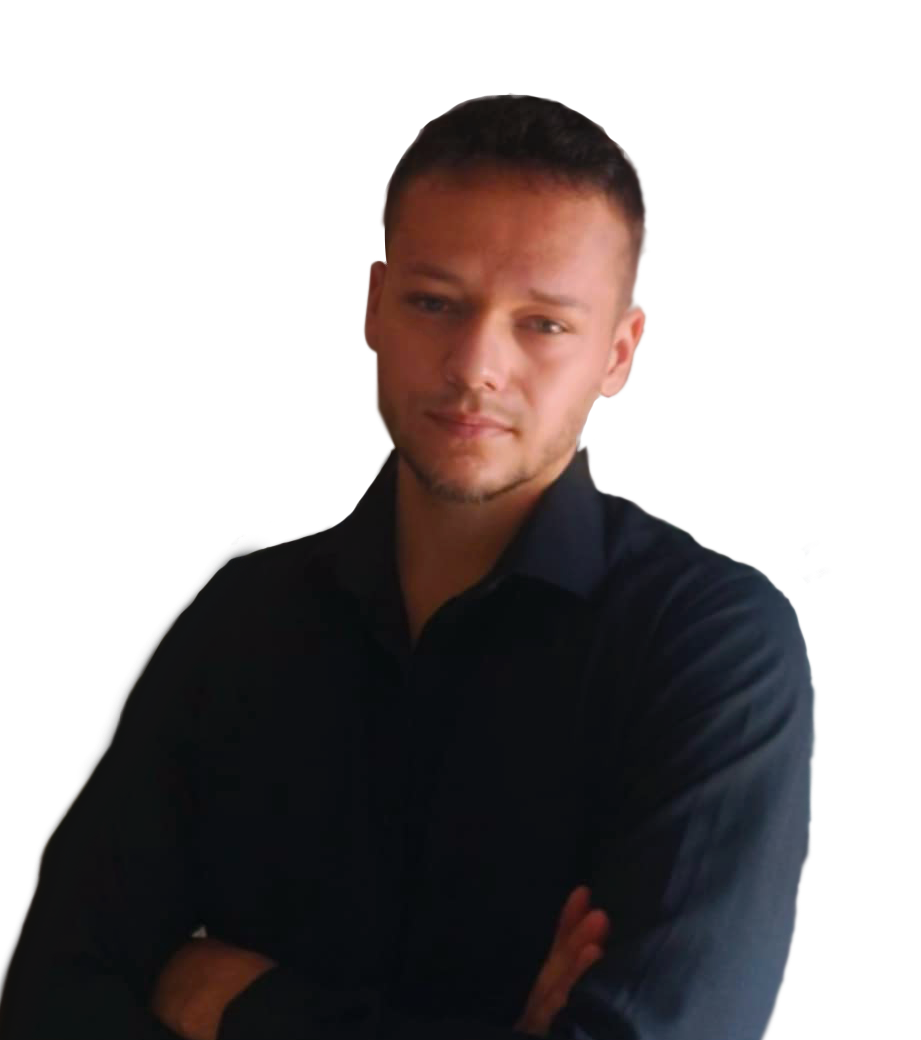
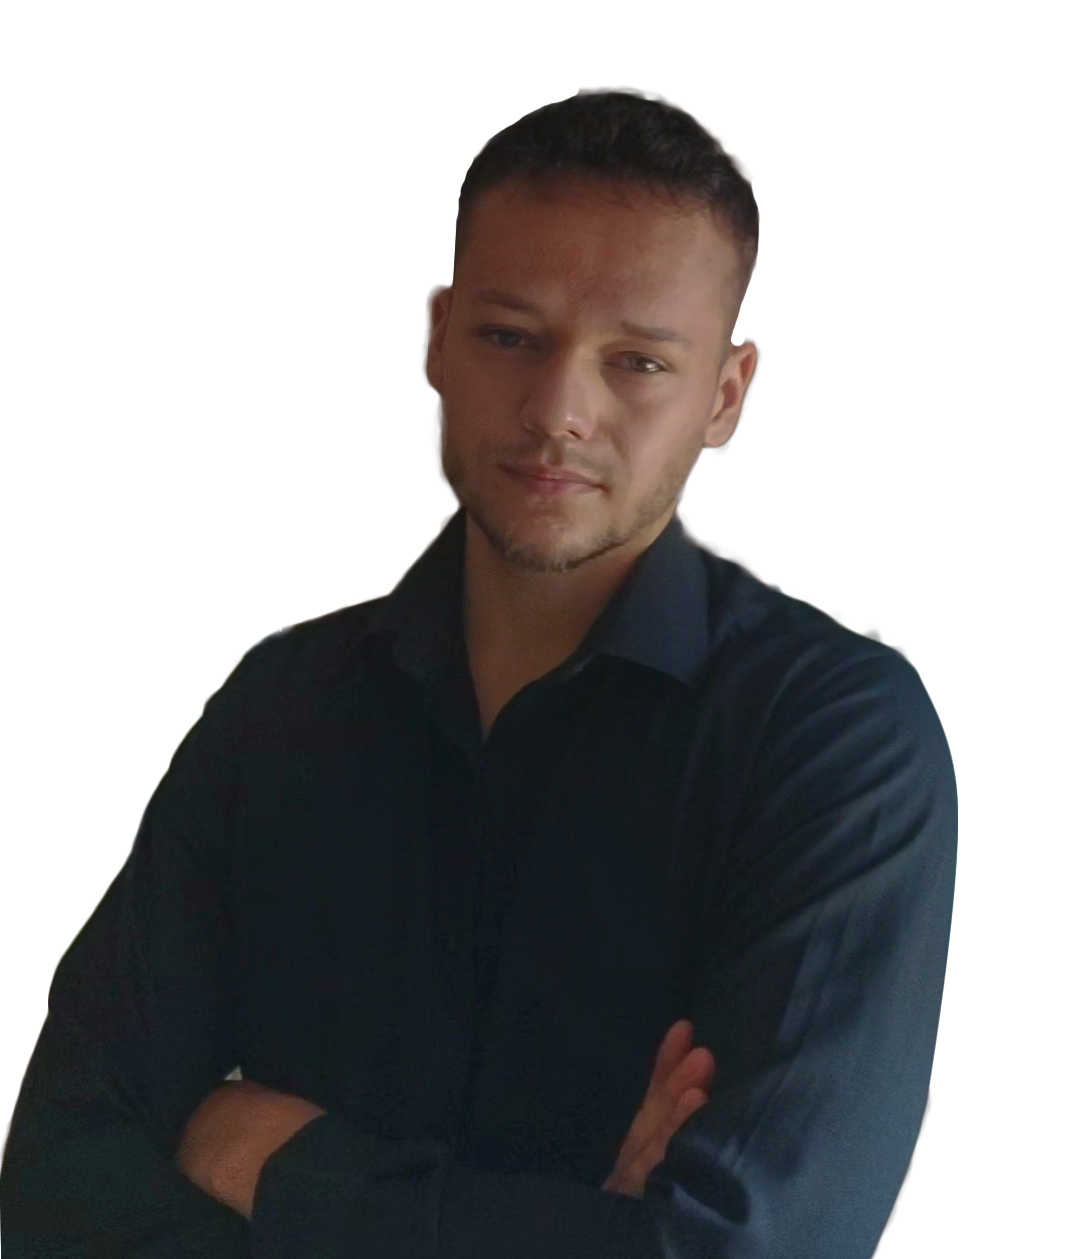
Update photo

diff --git a/src/Components/MainContent/MainContent.jsx b/src/Components/MainContent/MainContent.jsx
@@ -4,7 +4,7 @@ import inst from "../../assets/icons/Instagram_icon.png"
 import facebook from "../../assets/icons/Facebook_Logo.png"
 import github from "../../assets/icons/Github_icon.png"
 import StyledButton from '../StyledButton/StyledButton'
-import img from "../../assets/img/img2.png"
+import img from "../../assets/img/img.png"
 import { HashLink as Link } from 'react-router-hash-link';
 
 const MainContent = ({lightMode}) => {

diff --git a/src/Components/Navbar/Navbar.jsx b/src/Components/Navbar/Navbar.jsx
@@ -1,7 +1,5 @@
 import { useEffect, useRef, useState } from "react";
 import "./Navbar.css";
-import uk from "../../assets/img/uk.png"
-import pl from "../../assets/img/pl.png"
 import { HashLink as Link } from 'react-router-hash-link';
 
 const Navbar = ({lightMode,setLightMode}) => {

diff --git a/src/Components/About/About.jsx b/src/Components/About/About.jsx
@@ -1,6 +1,5 @@
 import React from 'react'
 import "./About.css"
-import img from "../../assets/img/img2.webp"
 import { aboutText, personalInfo, education, certificates, interests } from "../../data/about";
 
 

diff --git a/src/Components/MainContent/MainContent.css b/src/Components/MainContent/MainContent.css
@@ -130,7 +130,6 @@
     object-fit: contain;
     width: 100%;
     height: 100%;
-    filter: drop-shadow(0 0 3px white) drop-shadow(10px 0 7px black);
     border-radius: 20px;
 }
 
